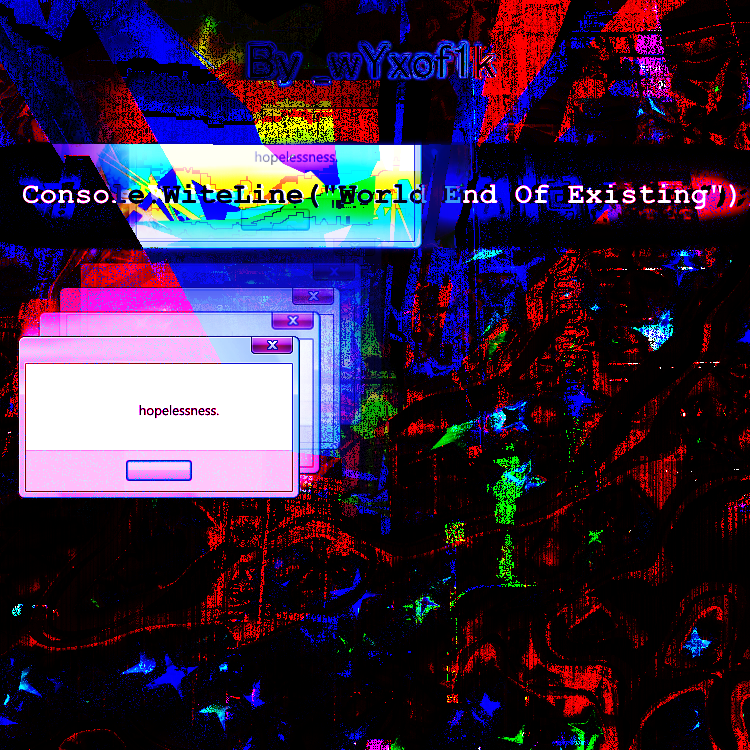
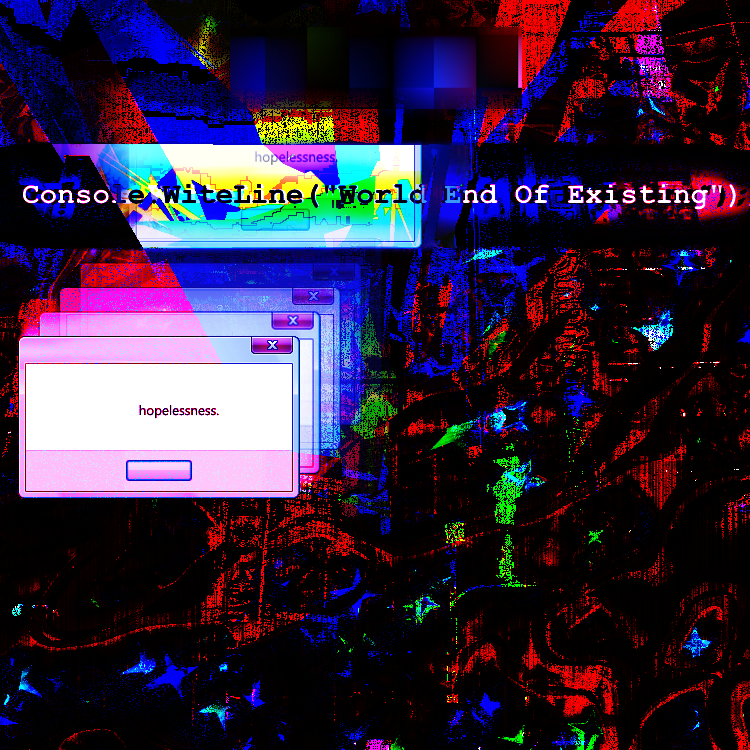
mama

Changed region(s): [[0.276, 0.0307, 0.7053, 0.1533]]

diff --git a/ai/git.html b/ai/git.html
@@ -1,0 +1,327 @@
+<!DOCTYPE html>
+<html lang="ru">
+<head>
+    <meta charset="UTF-8">
+    <meta name="viewport" content="width=device-width, initial-scale=1.0">
+    <title>GitExplorer Pro - Woowz11</title>
+    <script src="https://cdn.tailwindcss.com"></script>
+    <link rel="stylesheet" href="https://cdnjs.cloudflare.com/ajax/libs/prism/1.29.0/themes/prism-tomorrow.min.css">
+    <script src="https://cdnjs.cloudflare.com/ajax/libs/prism/1.29.0/prism.min.js"></script>
+    <script src="https://unpkg.com/lucide@latest"></script>
+    <script src="https://cdnjs.cloudflare.com/ajax/libs/jszip/3.10.1/jszip.min.js"></script>
+    <style>
+        :root { --icon-size: 80px; }
+        body { background: #0d1117; color: #c9d1d9; user-select: none; }
+        .explorer-item.selected { background: rgba(56, 139, 253, 0.2) !important; border: 1px solid #388bfd !important; }
+        #selection-box { position: absolute; background: rgba(56, 139, 253, 0.3); border: 1px solid #388bfd; pointer-events: none; z-index: 1000; display: none; }
+        #contextMenu { display: none; position: fixed; z-index: 10000; background: #161b22; border: 1px solid #30363d; border-radius: 6px; padding: 4px; box-shadow: 0 10px 25px rgba(0,0,0,0.5); }
+        .menu-item { padding: 8px 12px; font-size: 13px; cursor: pointer; border-radius: 4px; display: flex; align-items: center; gap: 8px; }
+        .menu-item:hover { background: #388bfd; color: white; }
+        iframe { background: white; width: 100%; height: 100%; border: none; border-radius: 8px; }
+        .file-grid { display: grid; grid-template-columns: repeat(auto-fill, minmax(var(--icon-size), 1fr)); align-content: start; }
+    </style>
+</head>
+<body class="h-screen flex flex-col overflow-hidden">
+
+<!-- Header -->
+<header class="bg-[#161b22] border-b border-[#30363d] p-3 flex items-center justify-between gap-4 z-50">
+    <div class="flex items-center gap-3">
+        <div class="bg-blue-600 p-1.5 rounded text-white"><i data-lucide="folder-git-2" size="20"></i></div>
+        <input id="repoInput" type="text" value="Woowz11/woowzsite" onkeypress="if(event.key==='Enter') loadRepo('')"
+               class="bg-[#0d1117] border border-[#30363d] rounded px-3 py-1 text-sm w-64 outline-none focus:border-blue-500">
+    </div>
+
+    <div class="flex items-center gap-4">
+        <div class="flex items-center gap-2 bg-[#0d1117] p-1 rounded border border-[#30363d]">
+            <button onclick="togglePreviewMode()" id="previewToggleBtn" class="p-1.5 rounded hover:bg-gray-800" title="Вкл/Выкл предпросмотр">
+                <i data-lucide="eye" size="18"></i>
+            </button>
+            <div class="w-px h-4 bg-gray-700 mx-1"></div>
+            <input type="range" min="50" max="180" value="90" oninput="updateSize(this.value)" class="w-20 accent-blue-500">
+        </div>
+        <div id="limitDisplay" class="px-3 py-1 bg-black/30 border border-gray-800 rounded-full text-[11px] font-mono">
+            API: <span id="rateRemaining" class="text-green-500 font-bold">--</span>
+        </div>
+    </div>
+</header>
+
+<main class="flex-1 flex overflow-hidden relative">
+    <!-- Selection Box -->
+    <div id="selection-box"></div>
+
+    <!-- File Area -->
+    <section class="flex-1 flex flex-col overflow-hidden">
+        <div id="breadcrumbs" class="px-4 py-2 border-b border-[#30363d] bg-[#0d1117] text-[11px] flex items-center gap-2 uppercase tracking-wider font-semibold text-gray-500"></div>
+        <div id="fileGrid" class="flex-1 overflow-y-auto p-4 file-grid gap-2 relative"
+             onmousedown="startSelection(event)" oncontextmenu="handleContextMenu(event)">
+        </div>
+    </section>
+
+    <!-- Preview Sidebar -->
+    <aside id="previewPane" class="w-[450px] bg-[#161b22] border-l border-[#30363d] flex flex-col hidden shadow-2xl">
+        <div class="p-4 border-b border-[#30363d] flex justify-between items-center bg-[#1c2128]">
+            <span class="text-xs font-bold uppercase text-gray-400">Предпросмотр</span>
+            <button onclick="togglePreviewMode(false)" class="hover:text-red-400"><i data-lucide="x" size="18"></i></button>
+        </div>
+        <div id="previewContent" class="flex-1 overflow-hidden p-2">
+            <div class="h-full flex flex-col items-center justify-center text-gray-600 italic text-sm">
+                Выберите файл для просмотра
+            </div>
+        </div>
+    </aside>
+</main>
+
+<!-- Context Menu -->
+<div id="contextMenu">
+    <div class="menu-item" onclick="openSelected()"><i data-lucide="folder-open" size="14"></i> Открыть</div>
+    <div class="menu-item" onclick="downloadAsZip()"><i data-lucide="download-cloud" size="14"></i> Скачать выбранное (ZIP)</div>
+    <div class="menu-item border-t border-gray-700 mt-1" onclick="copyLinks()"><i data-lucide="copy" size="14"></i> Копировать ссылки</div>
+</div>
+
+<script>
+    let currentRepo = '';
+    let currentPath = '';
+    let defaultBranch = 'main';
+    let isPreviewOpen = false;
+    let selectedFiles = new Set();
+    let allFiles = [];
+
+    // --- Инициализация ---
+    lucide.createIcons();
+
+    function updateSize(v) { document.documentElement.style.setProperty('--icon-size', v + 'px'); }
+
+    function togglePreviewMode(state) {
+        isPreviewOpen = state !== undefined ? state : !isPreviewOpen;
+        document.getElementById('previewPane').classList.toggle('hidden', !isPreviewOpen);
+        document.getElementById('previewToggleBtn').classList.toggle('bg-blue-600', isPreviewOpen);
+        if (!isPreviewOpen) document.getElementById('previewContent').innerHTML = '';
+    }
+
+    // --- Загрузка данных ---
+    async function loadRepo(path) {
+        currentPath = path;
+        const repoPath = document.getElementById('repoInput').value.trim();
+        if (!repoPath) return;
+
+        if (currentRepo !== repoPath) {
+            const res = await fetch(`https://api.github.com/repos/${repoPath}`);
+            const data = await res.json();
+            defaultBranch = data.default_branch || 'main';
+            currentRepo = repoPath;
+        }
+
+        const res = await fetch(`https://api.github.com/repos/${currentRepo}/contents/${path}`);
+        const files = await res.json();
+        allFiles = files;
+        updateRateLimit(res.headers);
+        renderFiles(files);
+        renderBreadcrumbs(path);
+    }
+
+    function renderFiles(files) {
+        const grid = document.getElementById('fileGrid');
+        grid.innerHTML = '';
+        selectedFiles.clear();
+
+        files.sort((a,b) => (b.type==='dir')-(a.type==='dir')).forEach(f => {
+            const item = document.createElement('div');
+            item.className = 'explorer-item p-3 flex flex-col items-center text-center rounded-lg border border-transparent hover:bg-white/5 cursor-default transition-all';
+            item.dataset.name = f.name;
+
+            const { icon, color } = getFileInfo(f);
+            item.innerHTML = `
+                    <div class="pointer-events-none mb-2 shadow-lg">
+                        <i data-lucide="${icon}" class="${color}" style="width: calc(var(--icon-size)*0.45); height: calc(var(--icon-size)*0.45)"></i>
+                    </div>
+                    <span class="text-[11px] font-medium truncate w-full px-1">${f.name}</span>
+                `;
+
+            item.addEventListener('mousedown', (e) => {
+                e.stopPropagation();
+                if (!e.ctrlKey) {
+                    document.querySelectorAll('.explorer-item').forEach(el => el.classList.remove('selected'));
+                    selectedFiles.clear();
+                }
+                item.classList.add('selected');
+                selectedFiles.add(f.name);
+                if (isPreviewOpen) autoPreview(f);
+            });
+
+            item.addEventListener('dblclick', () => f.type === 'dir' ? loadRepo(f.path) : window.open(f.html_url));
+
+            grid.appendChild(item);
+        });
+        lucide.createIcons();
+    }
+
+    // --- Уникальные иконки ---
+    function getFileInfo(f) {
+        if (f.type === 'dir') return { icon: 'folder', color: 'text-yellow-500' };
+        const ext = f.name.split('.').pop().toLowerCase();
+        const map = {
+            'js': { icon: 'file-code-2', color: 'text-yellow-400' },
+            'ts': { icon: 'file-code-2', color: 'text-blue-400' },
+            'html': { icon: 'layout', color: 'text-orange-500' },
+            'css': { icon: 'palette', color: 'text-blue-300' },
+            'json': { icon: 'braces', color: 'text-purple-400' },
+            'py': { icon: 'terminal', color: 'text-green-500' },
+            'md': { icon: 'book-open', color: 'text-gray-300' },
+            'png': { icon: 'image', color: 'text-pink-400' },
+            'jpg': { icon: 'image', color: 'text-pink-400' },
+            'svg': { icon: 'component', color: 'text-pink-300' },
+            'mp4': { icon: 'video', color: 'text-red-400' },
+            'mp3': { icon: 'music', color: 'text-cyan-400' },
+            'zip': { icon: 'archive', color: 'text-orange-700' }
+        };
+        return map[ext] || { icon: 'file', color: 'text-gray-500' };
+    }
+
+    // --- Авто-предпросмотр ---
+    async function autoPreview(f) {
+        const content = document.getElementById('previewContent');
+        content.innerHTML = '<div class="h-full flex items-center justify-center animate-pulse">Загрузка...</div>';
+
+        const rawUrl = `https://raw.githubusercontent.com/${currentRepo}/${defaultBranch}/${f.path}`;
+        const githackUrl = `https://raw.githack.com/${currentRepo}/${defaultBranch}/${f.path}`;
+        const ext = f.name.split('.').pop().toLowerCase();
+
+        if (f.type === 'dir') {
+            content.innerHTML = `<div class="p-10 text-center text-gray-500">Это папка. Выберите файл для просмотра.</div>`;
+        } else if (ext === 'html') {
+            content.innerHTML = `<iframe src="${githackUrl}"></iframe>`;
+        } else if (['png','jpg','jpeg','gif','webp','svg'].includes(ext)) {
+            content.innerHTML = `<div class="h-full flex items-center justify-center p-4"><img src="${rawUrl}" class="max-w-full max-h-full rounded shadow-xl"></div>`;
+        } else {
+            try {
+                const res = await fetch(rawUrl);
+                const text = await res.text();
+                const pre = document.createElement('pre');
+                const code = document.createElement('code');
+                code.className = `language-${ext}`;
+                code.textContent = text.length > 10000 ? text.substring(0, 10000) + '... [Обрезано]' : text;
+                pre.appendChild(code);
+                content.innerHTML = '';
+                content.appendChild(pre);
+                Prism.highlightElement(code);
+            } catch {
+                content.innerHTML = 'Не удалось загрузить предпросмотр';
+            }
+        }
+    }
+
+    // --- Выделение рамкой ---
+    function startSelection(e) {
+        if (e.button !== 0) return;
+        const grid = document.getElementById('fileGrid');
+        const box = document.getElementById('selection-box');
+        const startX = e.pageX;
+        const startY = e.pageY;
+
+        if (!e.ctrlKey) {
+            document.querySelectorAll('.explorer-item').forEach(el => el.classList.remove('selected'));
+            selectedFiles.clear();
+        }
+
+        function onMouseMove(me) {
+            box.style.display = 'block';
+            const curX = me.pageX;
+            const curY = me.pageY;
+            const x = Math.min(startX, curX);
+            const y = Math.min(startY, curY);
+            const w = Math.abs(startX - curX);
+            const h = Math.abs(startY - curY);
+
+            box.style.left = x + 'px';
+            box.style.top = y + 'px';
+            box.style.width = w + 'px';
+            box.style.height = h + 'px';
+
+            document.querySelectorAll('.explorer-item').forEach(item => {
+                const rect = item.getBoundingClientRect();
+                if (!(rect.right < x || rect.left > x + w || rect.bottom < y || rect.top > y + h)) {
+                    item.classList.add('selected');
+                    selectedFiles.add(item.dataset.name);
+                } else if (!me.ctrlKey) {
+                    item.classList.remove('selected');
+                    selectedFiles.delete(item.dataset.name);
+                }
+            });
+        }
+
+        function onMouseUp() {
+            box.style.display = 'none';
+            window.removeEventListener('mousemove', onMouseMove);
+            window.removeEventListener('mouseup', onMouseUp);
+        }
+
+        window.addEventListener('mousemove', onMouseMove);
+        window.addEventListener('mouseup', onMouseUp);
+    }
+
+    // --- ZIP Скачивание ---
+    async function downloadAsZip() {
+        if (selectedFiles.size === 0) return;
+        const zip = new JSZip();
+        const btn = document.querySelector('[onclick="downloadAsZip()"]');
+        btn.innerText = 'Подготовка...';
+
+        for (let name of selectedFiles) {
+            const f = allFiles.find(x => x.name === name);
+            if (f && f.type === 'file') {
+                const res = await fetch(`https://raw.githubusercontent.com/${currentRepo}/${defaultBranch}/${f.path}`);
+                const blob = await res.blob();
+                zip.file(f.path, blob);
+            }
+        }
+
+        const content = await zip.generateAsync({type: "blob"});
+        const link = document.createElement('a');
+        link.href = URL.createObjectURL(content);
+        link.download = `${currentRepo.split('/')[1]}_selected.zip`;
+        link.click();
+        btn.innerHTML = '<i data-lucide="download-cloud" size="14"></i> Скачать выбранное (ZIP)';
+        lucide.createIcons();
+    }
+
+    // --- Контекстное меню ---
+    function handleContextMenu(e) {
+        e.preventDefault();
+        const menu = document.getElementById('contextMenu');
+        menu.style.display = 'block';
+        menu.style.left = e.pageX + 'px';
+        menu.style.top = e.pageY + 'px';
+    }
+
+    window.onclick = () => document.getElementById('contextMenu').style.display = 'none';
+
+    function openSelected() {
+        if (selectedFiles.size === 1) {
+            const name = Array.from(selectedFiles)[0];
+            const f = allFiles.find(x => x.name === name);
+            if (f.type === 'dir') loadRepo(f.path);
+            else window.open(f.html_url);
+        }
+    }
+
+    function renderBreadcrumbs(path) {
+        const b = document.getElementById('breadcrumbs');
+        b.innerHTML = `<span class="cursor-pointer hover:text-white" onclick="loadRepo('')">root</span>`;
+        let acc = '';
+        path.split('/').filter(Boolean).forEach(p => {
+            acc += (acc ? '/' : '') + p;
+            const target = acc;
+            b.innerHTML += `<i data-lucide="chevron-right" size="12"></i><span class="cursor-pointer hover:text-white" onclick="loadRepo('${target}')">${p}</span>`;
+        });
+        lucide.createIcons();
+    }
+
+    function updateRateLimit(h) {
+        const rem = h.get('x-ratelimit-remaining');
+        if (rem) document.getElementById('rateRemaining').innerText = rem;
+    }
+
+    window.onload = () => loadRepo('');
+</script>
+</body>
+</html>